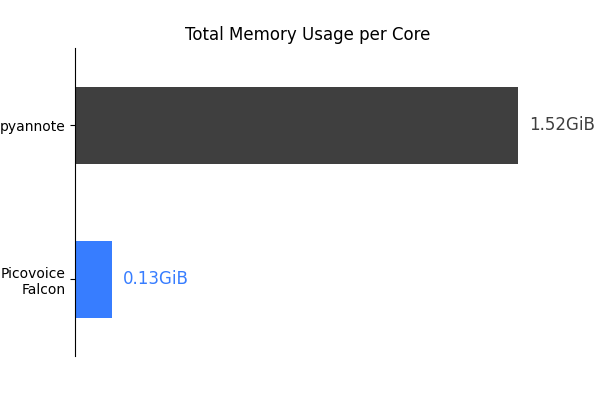
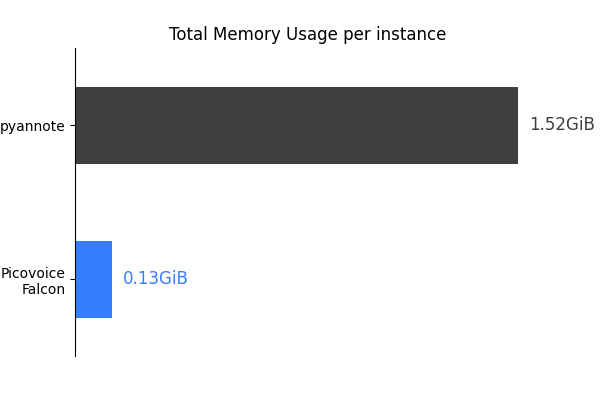
wip

Changed region(s): [[0.27, 0.06, 0.75, 0.12]]

diff --git a/benchmark.py b/benchmark.py
@@ -1,11 +1,9 @@
 import argparse
 import math
-import os
 from collections import namedtuple
 from concurrent.futures import ProcessPoolExecutor
 from time import perf_counter
 
-import psutil
 from pyannote.metrics.diarization import (
     DiarizationErrorRate,
     JaccardErrorRate,
@@ -146,7 +144,7 @@ def _process_worker(
     return WorkerResult(total_audio_sec, process_time)
 
 
-def _process_cpu_process_pool(
+def _process_pool(
         engine: str,
         engine_params: Dict[str, Any],
         dataset: Dataset,
@@ -220,7 +218,7 @@ def main() -> None:
     elif args.type == BenchmarkTypes.CPU.value:
         if not engine.is_offline():
             raise ValueError(f"CPU benchmark is only supported for offline engines")
-        _process_cpu_process_pool(
+        _process_pool(
             engine=args.engine,
             engine_params=engine_args,
             dataset=dataset,
@@ -230,7 +228,7 @@ def main() -> None:
             raise ValueError(f"Memory benchmark is only supported for offline engines")
         print("Please make sure the `mem_monitor.py` script is running and then press enter to continue...")
         input()
-        _process_cpu_process_pool(
+        _process_pool(
             engine=args.engine,
             engine_params=engine_args,
             dataset=dataset,

diff --git a/plot_results.py b/plot_results.py
@@ -225,7 +225,7 @@ def _plot_mem(
     ax.spines["right"].set_visible(False)
     ax.set_xticks([])
     ax.set_ylim([-0.5, 1.5])
-    plt.title("Total Memory Usage per Core", fontsize=12)
+    plt.title("Total Memory Usage per instance", fontsize=12)
     plt.savefig(os.path.join(save_path, "mem_usage_comparison.png"))
 
     if show:

diff --git a/README.md b/README.md
@@ -16,9 +16,9 @@ This repo is a minimalist and extensible framework for benchmarking different sp
 
 ### [VoxConverse](https://www.robots.ox.ac.uk/~vgg/data/voxconverse/)
 
-VoxConverse is a well-known dataset in speaker diarization field which features speakers conversing in multiple languages. In this benchmark, we employ cloud-based
-Speech-to-Text engines equipped with speaker diarization capabilities. Therefore, for benchmarking purposes, the English
-subset of the test section of the dataset is used.
+VoxConverse is a well-known dataset in the speaker diarization field, showcasing speakers conversing in multiple
+languages. In this benchmark, we utilize cloud-based Speech-to-Text engines equipped with speaker diarization
+capabilities. Hence, for benchmarking purposes, we specifically employ the English subset of the dataset's test section.
 
 ### Setup
 
@@ -49,9 +49,8 @@ It presents the total memory utilized, measured in gigabytes (GB).
 
 ### Core-Hour
 
-The Core-Hour metric is employed when evaluating the computational efficiency of the diarization engine. This metric
-assesses computational time by indicating the utilization of a single CPU core over one hour. Increased computational
-efficiency is indicated by lower Core-Hour values, enabling faster processing of longer audio files.
+The Core-Hour metric is used to evaluate the computational efficiency of the diarization engine. This metric indicates
+how much audio can be processed in an hour using a single CPU core.
 
 > [!NOTE]
 > `Total Memory Usage` and `Core-Hour` metrics are not applicable to cloud-based engines.
@@ -220,18 +219,18 @@ RAM, and NVMe storage.
 
 ### Total Memory Usage
 
-|      Engine      | Memory Usage (GB) |
-|:----------------:|:-----------------:|
-| Picovoice Falcon |       0.00        |
-|  pyannote.audio  |       0.00        |
+|      Engine      | Memory Usage(GB) |
+|:----------------:|:----------------:|
+|  pyannote.audio  |       1.52       |
+| Picovoice Falcon |       0.13       |
 
 ![](./results/plots/mem_usage_comparison.png)
 
 ### Core-Hour
 
-|      Engine      | Core-Hour |
-|:----------------:|:---------:|
-| Picovoice Falcon |   0.00    |
-|  pyannote.audio  |   0.00    |
+|      Engine      | Audio Processed (hours) |
+|:----------------:|:-----------------------:|
+|  pyannote.audio  |          0.23           |
+| Picovoice Falcon |          25.49          |
 
 ![](./results/plots/cpu_usage_comparison.png)
